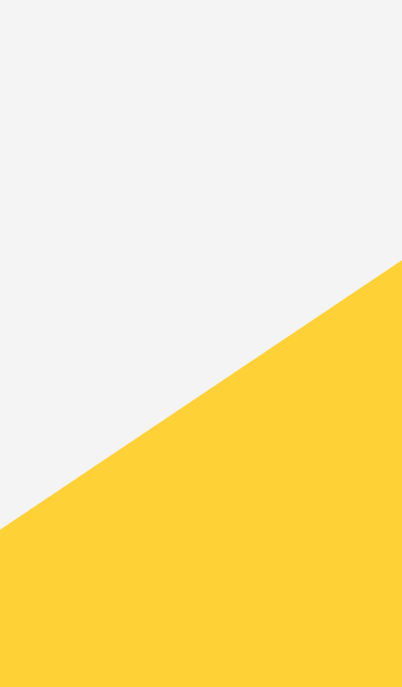
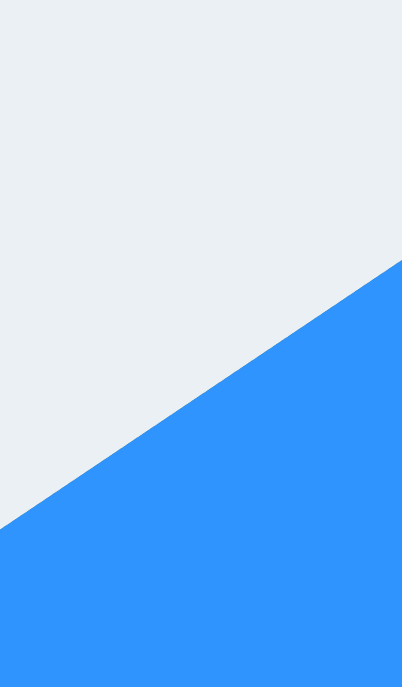
background change+ bottom navbar accent

diff --git a/src/screens/UploadFileInstructions.tsx b/src/screens/UploadFileInstructions.tsx
@@ -1,5 +1,5 @@
 import * as React from 'react';
-import {View, Text, StyleSheet} from 'react-native';
+import {View, Text, StyleSheet, Image, ImageBackground} from 'react-native';
 import {GRAY_BACKGROUND} from '../utils/colors';
 
 export interface UploadFileInstructionsProps {}
@@ -8,7 +8,7 @@ export function UploadFileInstructions(props: UploadFileInstructionsProps) {
   return (
     <View style={styles.mainContainer}>
       <Text style={styles.heading}>Upload File Instructions</Text>
-      <View style={styles.card}>
+      {/* <View style={styles.card}>
         <Text style={styles.cardHeading}>From WhatsApp</Text>
         <Text style={styles.aboutText}>
           {
@@ -25,7 +25,13 @@ export function UploadFileInstructions(props: UploadFileInstructionsProps) {
         <Text style={styles.aboutText}>
           {'Internal Storage -> Download -> Select the file'}
         </Text>
-      </View>
+      </View> */}
+
+      <ImageBackground
+        source={require('../assets/images/import.png')}
+        style={styles.image}
+        resizeMode="contain"
+      />
     </View>
   );
 }
@@ -64,5 +70,10 @@ const styles = StyleSheet.create({
     fontFamily: 'Montserrat-Regular',
     color: 'black',
     fontSize: 14,
+  },
+  image: {
+    flex: 1,
+    alignSelf: 'stretch',
+    marginBottom: 25,
   },
 });

diff --git a/src/navigations/BottomNavigator.tsx b/src/navigations/BottomNavigator.tsx
@@ -3,7 +3,7 @@ import {Text, StyleSheet, StatusBar} from 'react-native';
 import {createBottomTabNavigator} from '@react-navigation/bottom-tabs';
 import AntDesign from 'react-native-vector-icons/AntDesign';
 import {Dashboard} from '../screens/Dashboard';
-import {YELLOW, GRAY, GRAY_DARK} from '../utils/colors';
+import {WHITE, GRAY, GRAY_DARK} from '../utils/colors';
 import {AboutUs} from '../screens/AboutUs';
 import {createStackNavigator} from '@react-navigation/stack';
 import {ListNavigation} from './ListNavigation';
@@ -19,7 +19,7 @@ export function BottomNavigator() {
       <StatusBar barStyle="dark-content" backgroundColor="white" />
       <Tab.Navigator
         tabBarOptions={{
-          activeTintColor: YELLOW,
+          activeTintColor: WHITE,
           inactiveTintColor: GRAY,
           activeBackgroundColor: GRAY_DARK,
           inactiveBackgroundColor: GRAY_DARK,
@@ -65,7 +65,7 @@ export function BottomNavigator() {
 const styles = StyleSheet.create({
   label: {
     fontFamily: 'Montserrat-Regular',
-    color: YELLOW,
+    color: WHITE,
     fontSize: 11,
     margin: 0,
     padding: 0,

diff --git a/src/screens/IntroductionSlides.tsx b/src/screens/IntroductionSlides.tsx
@@ -17,7 +17,7 @@ export interface IntroductionSlidesProps {
   navigation: NavigationProp<any>;
 }
 
-const N = 3;
+const N = 1;
 const {width} = Dimensions.get('screen');
 
 export function IntroductionSlides({navigation}: IntroductionSlidesProps) {
@@ -57,8 +57,8 @@ export function IntroductionSlides({navigation}: IntroductionSlidesProps) {
           setScrollPos(nativeEvent.contentOffset.x / width);
           //   console.log(scrollPos);
         }}>
-        <Intro1 width={width} />
-        <Intro1 width={width} />
+        {/* <Intro1 width={width} />
+        <Intro1 width={width} /> */}
         <WelcomeScreen width={width} />
       </ScrollView>
       {scrollPos > N - 1.01 && scrollPos < N - 0.99 && (

diff --git a/src/screens/Welcome.tsx b/src/screens/Welcome.tsx
@@ -1,7 +1,8 @@
 import * as React from 'react';
-import {View, Text, StyleSheet, ImageBackground} from 'react-native';
+import {View, Text, StyleSheet, ImageBackground, StatusBar} from 'react-native';
 import {CustomButton} from '../components/CustomButton';
 import {NavigationProp} from '@react-navigation/native';
+import {BLUE, PRIMARY_BLUE} from '../utils/colors';
 
 interface WelcomeScreenProps {
   width: number;

diff --git a/src/utils/snackbar.tsx b/src/utils/snackbar.tsx
@@ -1,12 +1,12 @@
 import Snackbar from 'react-native-snackbar';
-import {YELLOW, GRAY_DARK} from './colors';
+import {WHITE, GRAY_DARK} from './colors';
 
 const showSnackbar = (text: string): void => {
   Snackbar.show({
     text,
     duration: Snackbar.LENGTH_SHORT,
     backgroundColor: GRAY_DARK,
-    textColor: YELLOW,
+    textColor: WHITE,
     fontFamily: 'Montserrat-Regular',
   });
 };

diff --git a/src/utils/colors.tsx b/src/utils/colors.tsx
@@ -1,4 +1,4 @@
-export const YELLOW = '#fed136';
+export const WHITE = '#ffffff';
 export const RED = '#dc3545';
 export const GRAY = '#6c757d';
 export const GRAY_DARK = '#343a40';
